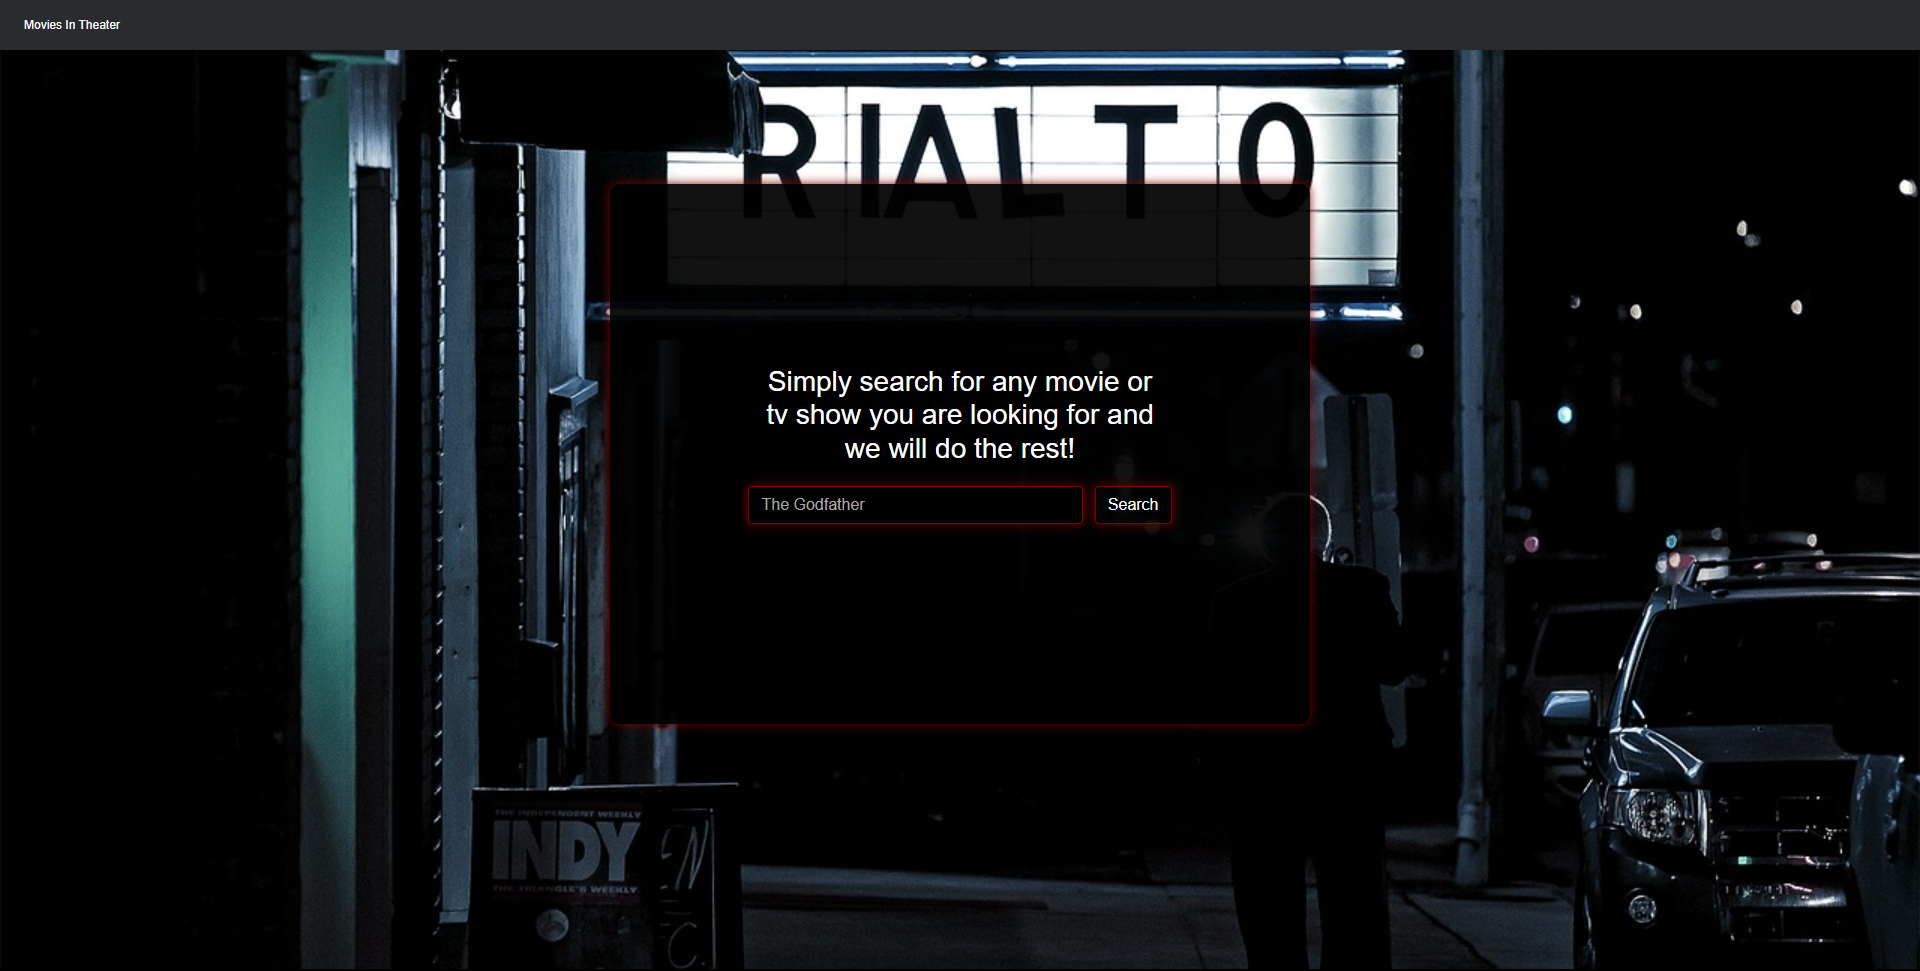
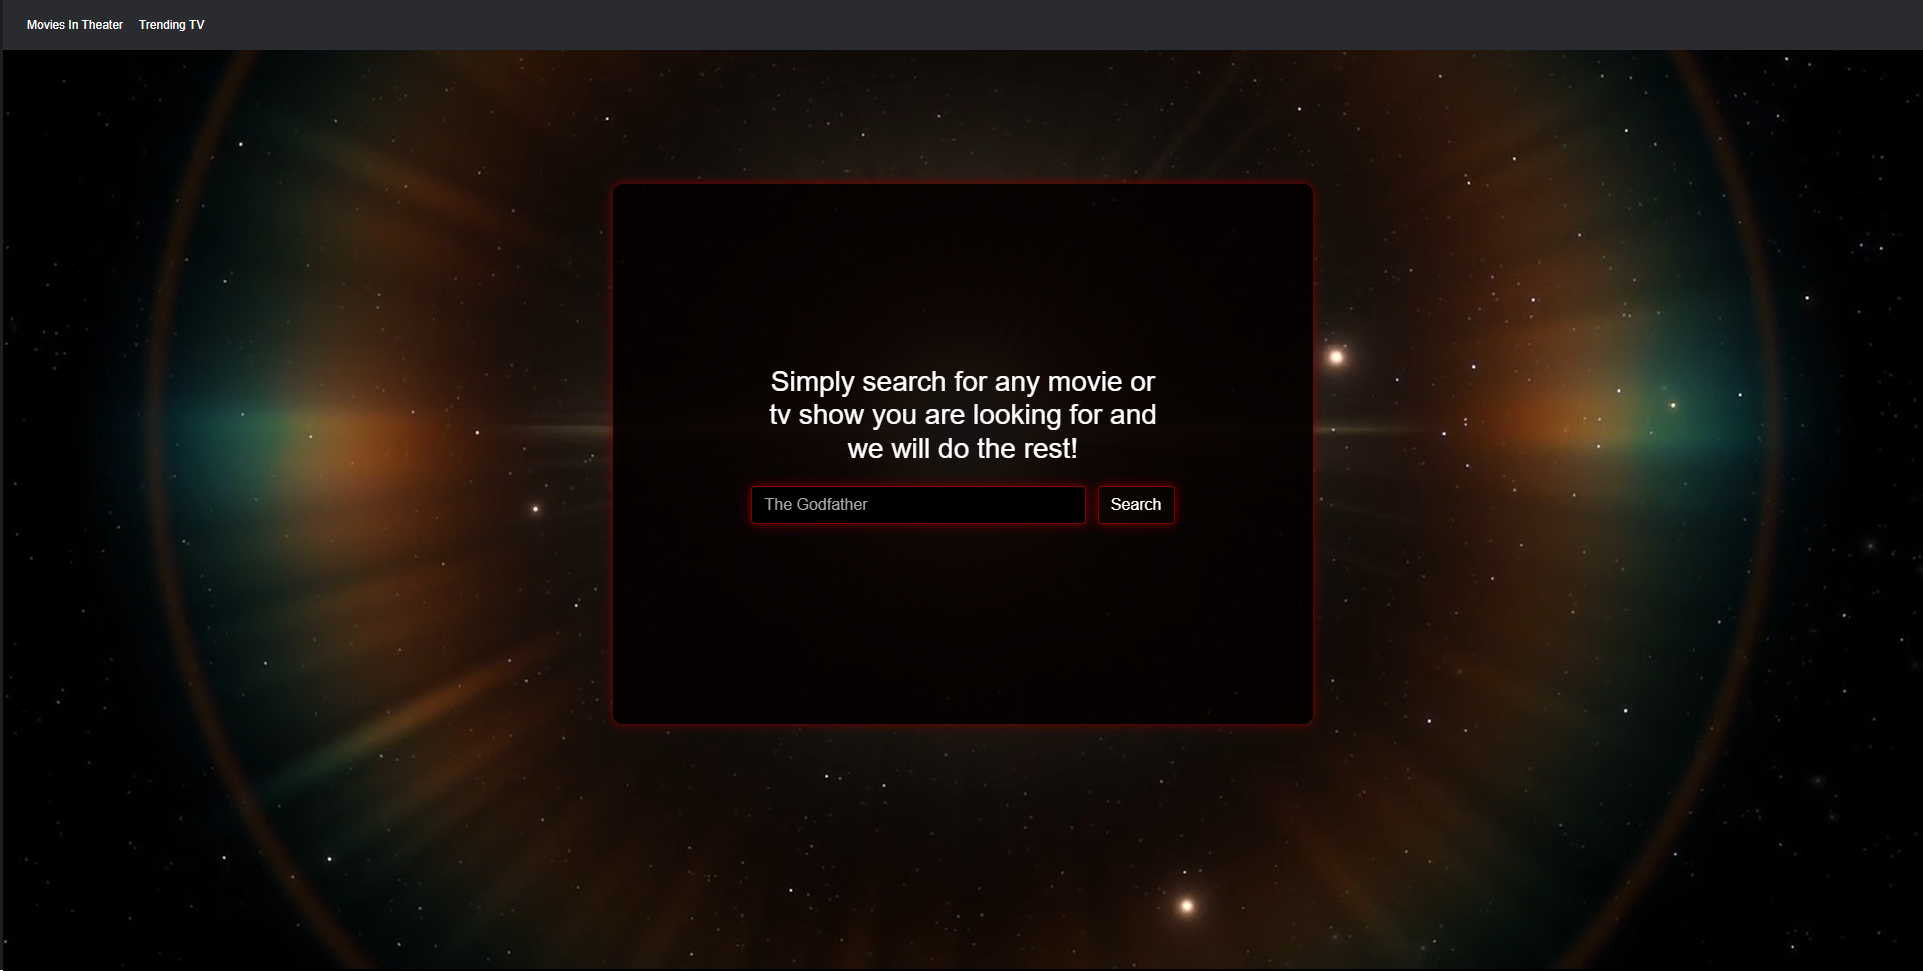
movie finder update

diff --git a/index.html b/index.html
@@ -175,8 +175,7 @@
                                 This application allows the user to search for any movie or television show of their
                                 chosing. The application will then provide the user with information and links on where
                                 they can watch their desired movie or television program. The user can also navigate to
-                                the "Movies In Theaters" page offering information about movies currently playing in
-                                theaters.
+                                the "Movies In Theaters" and "Trending TV" pages.
                             </p>
                         </div>
                     </div>
